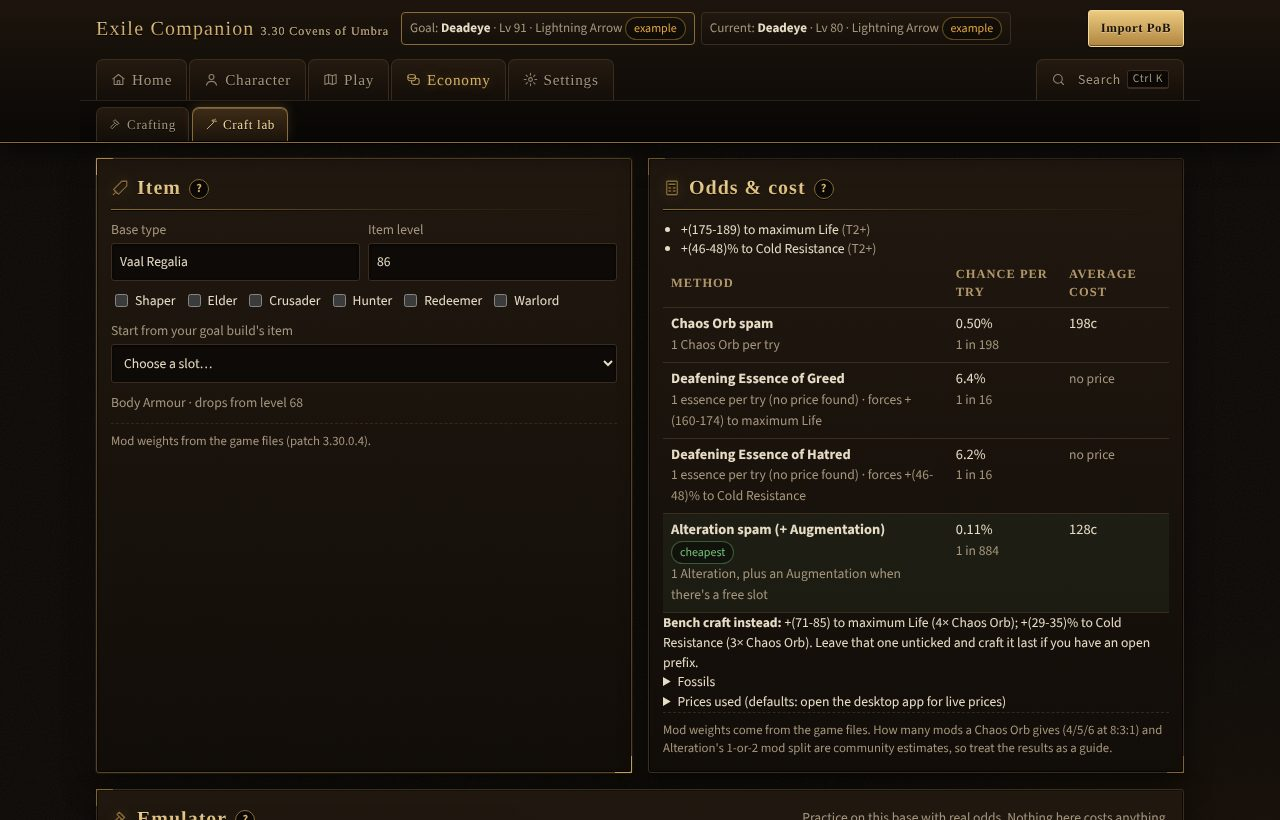
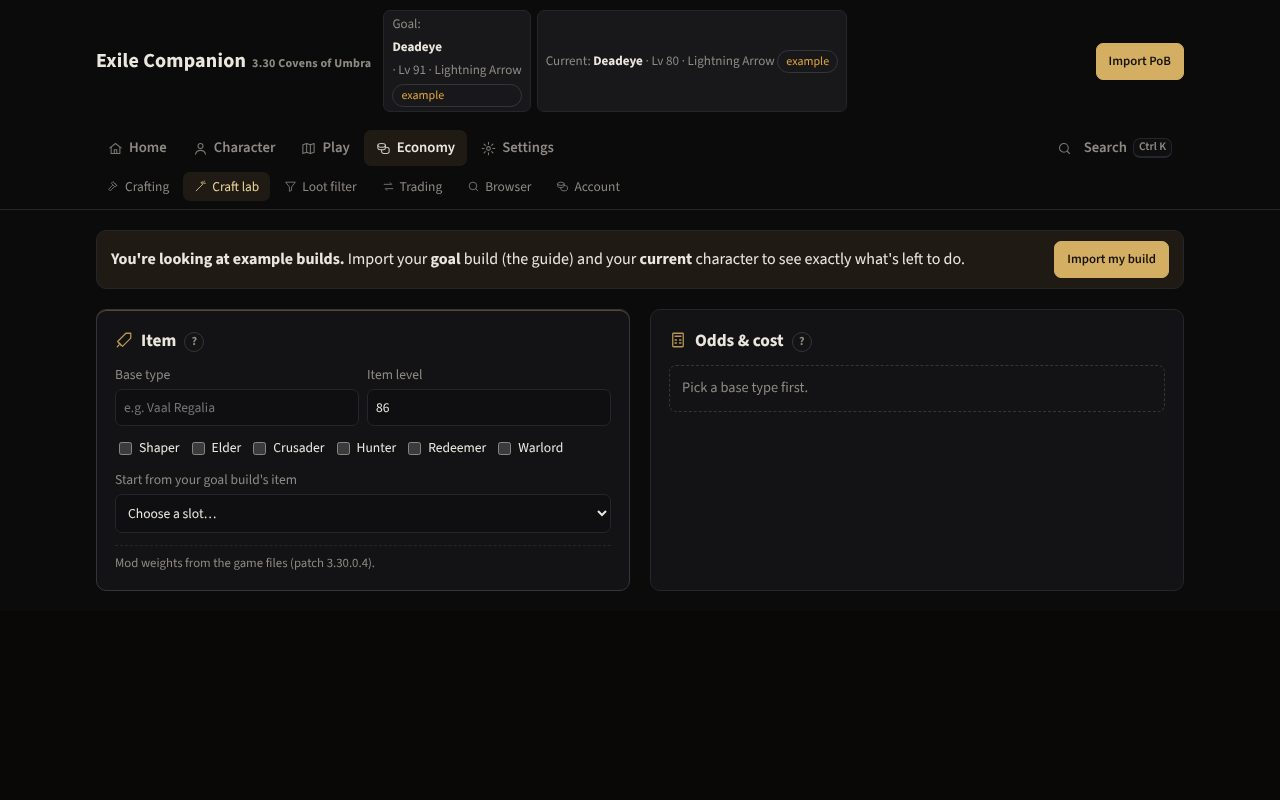
1.14.0: three themes (Dark minimal, Modern, Path of Exile), light animations, loading bar, minimal sounds
Claude-Session: https://claude.ai/code/session_011bvunBjcxHe2YqtxYbg75p

diff --git a/app/theme.css b/app/theme.css
@@ -1,0 +1,150 @@
+/* Exile Companion themes, motion and loading states.
+   html[data-theme] picks the look: "poe" is the original in-game style (the base stylesheet, untouched),
+   "minimal" and "modern" share a flat layer below and differ only in colours.
+   html.no-motion (setting or Windows "reduce motion") turns animations off. */
+
+/* ---------- colour sets ---------- */
+html[data-theme="minimal"]{
+  --bg:#0b0b0c; --panel:#131315; --panel2:#18181b; --line:#25252a; --line-hi:#34343b;
+  --text:#ebe7df; --muted:#8e8a83;
+  --gold:#d4ae62; --gold-dim:#7d6638; --gold-hi:#ecd29b; --accent-ink:#17120a;
+  --field:#0f0f11; --hover:#1d1d21; --soft:rgba(212,174,98,.10);
+  --display:"Source Sans 3","Segoe UI",system-ui,sans-serif;
+  --radius:10px; --radius-s:7px;
+}
+html[data-theme="modern"]{
+  --bg:#1a1b1e; --panel:#222327; --panel2:#2a2b30; --line:#33353b; --line-hi:#44464e;
+  --text:#e6e7ea; --muted:#9a9ca5;
+  --gold:#6d9cff; --gold-dim:#3f5f9e; --gold-hi:#a9c4ff; --accent-ink:#0b1020;
+  --field:#1c1d21; --hover:#2f3036; --soft:rgba(109,156,255,.12);
+  --display:"Segoe UI","Source Sans 3",system-ui,sans-serif;
+  --radius:8px; --radius-s:6px;
+}
+
+/* ---------- flat layer shared by minimal and modern ---------- */
+:is(html[data-theme="minimal"],html[data-theme="modern"]){
+  & html,& body{background:var(--bg)}
+  & body{background:var(--bg)!important}
+  & ::selection{background:var(--gold-dim);color:#fff}
+  & *{scrollbar-color:var(--line-hi) var(--bg)}
+  & header{background:color-mix(in srgb,var(--bg) 88%,transparent);backdrop-filter:blur(10px);border-bottom:1px solid var(--line);box-shadow:none}
+  & .brand{background:none;color:var(--text);-webkit-text-fill-color:currentColor;filter:none;letter-spacing:.01em;font-weight:700}
+  & .brand small{letter-spacing:.02em;font-family:var(--body)}
+  & h1,& h2,& h3{font-family:var(--display);letter-spacing:0}
+  & h2{background:none;-webkit-text-fill-color:currentColor;color:var(--text);filter:none;font-size:1.08rem;font-weight:700}
+  & .card>h2:first-child{border-bottom:0;padding-bottom:0}
+  & h3{font-size:.78rem;letter-spacing:.06em;color:var(--muted);font-weight:600}
+  & .ico-h{color:var(--gold);filter:none!important;opacity:.85}
+  & main{gap:20px;padding:20px 16px}
+  & section.tab.on,& .grid{gap:20px}
+  & .card{background:var(--panel);border:1px solid var(--line);border-radius:var(--radius);box-shadow:none;padding:18px;gap:12px}
+  & .card::before,& .card::after{display:none}
+  & .card.hl{border-color:var(--line-hi);box-shadow:inset 0 1px 0 color-mix(in srgb,var(--gold) 35%,transparent)}
+  & .btn{background:var(--panel2);border:1px solid var(--line-hi);color:var(--text);border-radius:var(--radius-s);box-shadow:none;text-shadow:none;font-family:var(--body);letter-spacing:0;font-weight:600}
+  & .btn:hover{background:var(--hover);border-color:var(--gold-dim);color:var(--text)}
+  & .btn.primary{background:var(--gold);border-color:var(--gold);color:var(--accent-ink);text-shadow:none}
+  & .btn.primary:hover{background:var(--gold-hi);border-color:var(--gold-hi);color:var(--accent-ink)}
+  & .btn.ghost{background:transparent;border-color:var(--line);color:var(--text)}
+  & .btn.ghost:hover{background:var(--hover);border-color:var(--line-hi)}
+  & .btn.small{font-size:.8rem;padding:5px 10px}
+  & nav button{background:none;border:0;border-radius:var(--radius-s);text-shadow:none;box-shadow:none;font-family:var(--body);letter-spacing:0;color:var(--muted)}
+  & nav button:hover{background:var(--hover);color:var(--text)}
+  & nav button[aria-selected="true"]{background:var(--soft);color:var(--text);box-shadow:none}
+  & #groups{padding:8px 16px 6px}
+  & #groups button{font-size:.92rem;font-weight:600;padding:7px 12px;border-bottom:0}
+  & #groups button[aria-current="true"]{color:var(--text);background:var(--soft);text-shadow:none}
+  & #tabs{background:none;border-top:0;padding:0 16px 8px}
+  & #tabs button{font-size:.84rem;padding:5px 11px}
+  & #tabs button[aria-selected="true"]{color:var(--gold-hi)}
+  & .pill{background:transparent;border-color:var(--line-hi)}
+  & .pill.gold{background:var(--soft);border-color:transparent;color:var(--gold-hi)}
+  & .stat{background:var(--panel2);border:0;border-radius:var(--radius-s);box-shadow:none}
+  & .stat .k{font-family:var(--body);letter-spacing:.04em;color:var(--muted);font-weight:600}
+  & input[type=text],& input[type=number],& input[type=password],& input[type=date],& input[type=search],& select,& textarea{background:var(--field);border:1px solid var(--line);border-radius:var(--radius-s);box-shadow:none}
+  & input:focus,& select:focus,& textarea:focus{border-color:var(--gold-dim);box-shadow:0 0 0 3px var(--soft)}
+  & .item{background:var(--field);border-color:var(--line);border-radius:var(--radius-s)}
+  & .item.UNIQUE,& .item.RARE,& .item.MAGIC{background:var(--field);border-color:var(--line)}
+  & .item.UNIQUE{border-left-color:var(--unique)}& .item.RARE{border-left-color:#d9d65a}& .item.MAGIC{border-left-color:var(--magic)}
+  & .item .nm,& .seg button,& th,& .fl-label{font-family:var(--body);letter-spacing:0}
+  & .sg,& .check,& .bchip,& .cl-row,& .fl-rule{background:var(--panel2);border-color:var(--line);border-radius:var(--radius-s)}
+  & .cl-row.on,& .fl-rule.on{background:var(--soft)}
+  & th{color:var(--muted);letter-spacing:.03em}
+  & tbody tr:hover td{background:var(--soft)}
+  & .meter{background:var(--field);border:0;box-shadow:none}
+  & .meter i{background:var(--gold);box-shadow:none}
+  & .big{background:none;-webkit-text-fill-color:currentColor;color:var(--gold-hi);font-family:var(--display);font-weight:700}
+  & .banner{background:var(--soft);border:1px solid var(--line);border-radius:var(--radius);box-shadow:none}
+  & dialog{background:var(--panel);border:1px solid var(--line-hi);border-radius:calc(var(--radius) + 2px);box-shadow:0 24px 70px rgba(0,0,0,.6)}
+  & .code,& .ttout,& kbd,& #cmdkQ,& .br-addr input,& .rp-pre,& #reportDlg textarea{background:var(--field);border-color:var(--line);border-radius:var(--radius-s)}
+  & .seg{border-color:var(--line-hi);border-radius:var(--radius-s)}
+  & .seg button[aria-pressed="true"],& .actseg button[aria-pressed="true"]{background:var(--gold);color:var(--accent-ink)}
+  & .helpbtn{background:transparent;border-color:var(--line-hi);color:var(--muted)}
+  & .helpbtn[aria-expanded="true"]{background:var(--gold);color:var(--accent-ink)}
+  & .helptext{background:var(--soft);border-left-color:var(--gold-dim)}
+  & .emptybox{border-color:var(--line-hi);background:transparent;border-radius:var(--radius-s)}
+  & #toast{background:var(--panel2);border:1px solid var(--line-hi);border-radius:var(--radius);box-shadow:0 12px 40px rgba(0,0,0,.5)}
+  & #cmdkList li{border-radius:var(--radius-s)}
+  & #cmdkList li[aria-selected="true"]{background:var(--soft);box-shadow:inset 2px 0 0 var(--gold)}
+  & .thread{background:var(--soft);border-color:transparent;border-radius:5px}
+  & .note{border-top-color:var(--line)}
+  & .br-host{background:var(--field);border-radius:var(--radius-s)}
+  & .clip-it{background:var(--panel2);border-color:var(--line)}
+  & .card.flash{animation:flashFlat 1.6s ease-out}
+}
+html[data-theme="modern"] .pill.gold,html[data-theme="modern"] #tabs button[aria-selected="true"]{color:var(--gold-hi)}
+html[data-theme="modern"] .ico-h{color:var(--muted)}
+@media (max-width:700px){:is(html[data-theme="minimal"],html[data-theme="modern"]) #groups .kbtn{background:linear-gradient(90deg,transparent,var(--bg) 30%)}}
+@keyframes flashFlat{0%{box-shadow:0 0 0 2px var(--gold)}100%{box-shadow:none}}
+
+/* ---------- PoE style: a little extra polish on top of the original ---------- */
+html[data-theme="poe"] h2 .ico-h{color:var(--gold)}
+
+/* ---------- motion ---------- */
+@keyframes ecFadeUp{from{opacity:0;transform:translateY(6px)}to{opacity:1;transform:none}}
+@keyframes ecFade{from{opacity:0}to{opacity:1}}
+@keyframes ecPop{from{opacity:0;transform:translateY(8px) scale(.98)}to{opacity:1;transform:none}}
+@keyframes ecSlideUp{from{opacity:0;transform:translate(-50%,10px)}to{opacity:1;transform:translate(-50%,0)}}
+@keyframes ecShake{0%,100%{transform:none}25%{transform:translateX(-4px)}75%{transform:translateX(4px)}}
+@keyframes ecShimmer{from{background-position:-200% 0}to{background-position:200% 0}}
+@keyframes ecBusy{from{transform:translateX(-100%)}to{transform:translateX(250%)}}
+html:not(.no-motion) section.tab.on{animation:ecFade .18s ease-out}
+html:not(.no-motion) section.tab.on>.card,html:not(.no-motion) section.tab.on>.grid>.card,html:not(.no-motion) section.tab.on>div>.card{animation:ecFadeUp .32s cubic-bezier(.2,.7,.2,1) both}
+html:not(.no-motion) section.tab.on>*:nth-child(2)>.card,html:not(.no-motion) section.tab.on>.card:nth-child(2){animation-delay:.04s}
+html:not(.no-motion) section.tab.on>*:nth-child(3)>.card,html:not(.no-motion) section.tab.on>.card:nth-child(3){animation-delay:.08s}
+html:not(.no-motion) section.tab.on>*:nth-child(n+4)>.card,html:not(.no-motion) section.tab.on>.card:nth-child(n+4){animation-delay:.12s}
+html:not(.no-motion) #tabs:not(.solo) button{animation:ecFade .2s ease-out both}
+html:not(.no-motion) dialog[open]{animation:ecPop .2s cubic-bezier(.2,.7,.2,1)}
+html:not(.no-motion) dialog[open]::backdrop{animation:ecFade .2s ease-out}
+html:not(.no-motion) #toast:not([hidden]){animation:ecSlideUp .22s cubic-bezier(.2,.7,.2,1)}
+html:not(.no-motion) .helptext{animation:ecFadeUp .18s ease-out}
+html:not(.no-motion) .btn,html:not(.no-motion) nav button,html:not(.no-motion) .clip-it,html:not(.no-motion) .item{transition:background-color .15s,border-color .15s,color .15s,transform .08s ease,box-shadow .15s}
+html:not(.no-motion) .btn:active:not([disabled]),html:not(.no-motion) nav button:active,html:not(.no-motion) .clip-it:active{transform:scale(.97)}
+html:not(.no-motion) .meter i,html:not(.no-motion) .gbar i{transition:width .5s cubic-bezier(.2,.7,.2,1)}
+html:not(.no-motion) .ec-invalid{animation:ecShake .28s ease-in-out}
+.ec-invalid{border-color:var(--bad)!important;box-shadow:0 0 0 3px color-mix(in srgb,var(--bad) 25%,transparent)!important}
+
+/* loading: a thin bar under the header while the app fetches, and skeleton lines for loading cards */
+#busy{position:fixed;left:0;right:0;top:0;height:2px;z-index:80;overflow:hidden;pointer-events:none;opacity:0;transition:opacity .2s}
+#busy i{display:block;width:40%;height:100%;background:linear-gradient(90deg,transparent,var(--gold),transparent)}
+body.busy #busy{opacity:1}
+html:not(.no-motion) body.busy #busy i{animation:ecBusy 1.1s ease-in-out infinite}
+html.no-motion body.busy #busy i{width:100%;opacity:.6}
+.skel{display:grid;gap:8px}
+.skel i{display:block;height:12px;border-radius:6px;background:linear-gradient(90deg,var(--panel2) 25%,var(--line) 50%,var(--panel2) 75%);background-size:200% 100%}
+.skel i:nth-child(2){width:80%}.skel i:nth-child(3){width:60%}
+html:not(.no-motion) .skel i{animation:ecShimmer 1.4s linear infinite}
+
+/* settings: theme picker */
+.theme-pick{display:grid;grid-template-columns:repeat(auto-fit,minmax(170px,1fr));gap:10px}
+.theme-opt{display:grid;gap:8px;padding:10px;border:1px solid var(--line);border-radius:8px;background:transparent;color:var(--text);text-align:left;cursor:pointer;font:inherit}
+.theme-opt[aria-pressed="true"]{border-color:var(--gold);box-shadow:0 0 0 2px color-mix(in srgb,var(--gold) 30%,transparent)}
+.theme-sw{height:54px;border-radius:6px;display:grid;grid-template-columns:1fr 2fr;gap:5px;padding:6px}
+.theme-sw b{border-radius:4px}
+.theme-sw.t-minimal{background:#0b0b0c}.theme-sw.t-minimal b:first-child{background:#18181b}.theme-sw.t-minimal b:last-child{background:#131315;box-shadow:inset 0 -6px 0 #d4ae62}
+.theme-sw.t-modern{background:#1a1b1e}.theme-sw.t-modern b:first-child{background:#2a2b30}.theme-sw.t-modern b:last-child{background:#222327;box-shadow:inset 0 -6px 0 #6d9cff}
+.theme-sw.t-poe{background:radial-gradient(circle at 50% 0,#2b1d10,#0a0806)}.theme-sw.t-poe b:first-child{background:linear-gradient(#3e2c17,#1b130b);border:1px solid #8a6c38}.theme-sw.t-poe b:last-child{background:linear-gradient(#21190f,#110d09);border:1px solid #5c4628;box-shadow:inset 0 -6px 0 #d4ae62}
+.vol{display:flex;gap:10px;align-items:center}.vol input{width:160px;accent-color:var(--gold)}
+
+/* checkbox rows keep the box next to its first line of text */
+label.row.small{flex-wrap:nowrap;align-items:flex-start}
+label.row.small>input[type=checkbox]{margin-top:3px;flex:none;accent-color:var(--gold)}

diff --git a/app/index.html b/app/index.html
@@ -6,6 +6,11 @@
 <meta name="viewport" content="width=device-width, initial-scale=1">
 <title>Exile Companion 3.30</title>
 <script>
+/* apply the saved theme and motion setting before the page paints */
+(function(){try{const st=JSON.parse(localStorage.getItem("ec330.state")||"{}");const ui=st.ui||{};const t=["minimal","modern","poe"].includes(ui.theme)?ui.theme:"minimal";
+document.documentElement.dataset.theme=t;if(ui.motion===false||matchMedia("(prefers-reduced-motion: reduce)").matches)document.documentElement.classList.add("no-motion")}catch(e){document.documentElement.dataset.theme="minimal"}})();
+</script>
+<script>
 /* keep the last few errors for "Report a problem" (memory only, never sent anywhere automatically) */
 window.__ERRS=[];(function(){const push=(k,m)=>{try{window.__ERRS.push({t:Date.now(),k,m:String(m).slice(0,600)});if(window.__ERRS.length>40)window.__ERRS.shift();if(window.__onAppError&&k!=="console")window.__onAppError()}catch(e){}};
 addEventListener("error",e=>{if(e.target&&e.target!==window&&e.target.tagName)return;push("error",(e.message||"")+(e.filename?` @ ${String(e.filename).split("/").pop()}:${e.lineno}:${e.colno}`:"")+(e.error&&e.error.stack?"\n"+e.error.stack.split("\n").slice(1,4).join("\n"):""))});
@@ -412,8 +417,10 @@ header{transition:transform .2s ease}
 
 @media (max-width:600px){#groups button{padding:9px 10px;font-size:.88rem}#groups .kbtn kbd,#groups .kbtn .lbl{display:none}#groups .kbtn{font-size:1.1rem}}
 </style>
+<link rel="stylesheet" href="theme.css">
 </head>
 <body>
+<div id="busy" aria-hidden="true"><i></i></div>
 <header>
   <div class="bar">
     <div class="brand">Exile Companion<small>3.30 Covens of Umbra</small></div>
@@ -1285,23 +1292,23 @@ function craftPlan(item,slot){
     <p class="note" style="margin:0">Not sure it's worth crafting? Search the trade site for the same base with your 2–3 most important mods. If it's cheaper than ~2 Divine Orbs, buy it.</p>`;
 }
 function openTradeTools(){
-  const el=$("tradeTools");if(el&&!el.firstChild)el.innerHTML='<div class="card hl"><h2>Trading</h2><p class="small muted" style="margin:0">Loading…</p></div>';
+  const el=$("tradeTools");if(el&&!el.firstChild)el.innerHTML='<div class="card hl"><h2>Trading</h2><div class="skel" aria-label="Loading"><i></i><i></i><i></i></div></div>';
   loadScriptOnce("tradetools.js","TradeTools").then(()=>TradeTools.render()).catch(e=>{if(el)el.innerHTML=`<div class="card"><h2>Trading</h2>${emptyBox("Couldn't load the trading tools: "+(e.message||e))}</div>`});
 }
 function openBuildTools(){
-  const el=$("buildTools");if(el&&!el.children.length)el.innerHTML='<div class="card"><h2>Build tools</h2><p class="small muted" style="margin:0">Loading…</p></div>';
+  const el=$("buildTools");if(el&&!el.children.length)el.innerHTML='<div class="card"><h2>Build tools</h2><div class="skel" aria-label="Loading"><i></i><i></i><i></i></div></div>';
   loadScriptOnce("buildtools.js","BuildTools").then(()=>BuildTools.render()).catch(e=>{if(el)el.innerHTML=`<div class="card"><h2>Build tools</h2>${emptyBox("Couldn't load the build tools: "+(e.message||e))}</div>`});
 }
 function openLeague(){
-  const el=$("leagueTools");if(el&&!el.children.length)el.innerHTML='<div class="card"><h2>League</h2><p class="small muted" style="margin:0">Loading…</p></div>';
+  const el=$("leagueTools");if(el&&!el.children.length)el.innerHTML='<div class="card"><h2>League</h2><div class="skel" aria-label="Loading"><i></i><i></i><i></i></div></div>';
   loadScriptOnce("league.js","LeagueTools").then(()=>LeagueTools.render()).catch(e=>{if(el)el.innerHTML=`<div class="card"><h2>League</h2>${emptyBox("Couldn't load the league tools: "+(e.message||e))}</div>`});
 }
 function openFilterLab(){
-  const el=$("filterLab");if(el&&!el.firstChild)el.innerHTML='<div class="card hl"><h2>Loot filter</h2><p class="small muted" style="margin:0">Loading…</p></div>';
+  const el=$("filterLab");if(el&&!el.firstChild)el.innerHTML='<div class="card hl"><h2>Loot filter</h2><div class="skel" aria-label="Loading"><i></i><i></i><i></i></div></div>';
   loadScriptOnce("filterlab.js","FilterLab").then(()=>FilterLab.render()).catch(e=>{if(el)el.innerHTML=`<div class="card"><h2>Loot filter</h2>${emptyBox("Couldn't load the filter editor: "+(e.message||e))}</div>`});
 }
 function openCraftLab(item){
-  const el=$("craftLab");if(el&&!el.firstChild)el.innerHTML='<div class="card hl"><h2>Craft lab</h2><p class="small muted" style="margin:0">Loading…</p></div>';
+  const el=$("craftLab");if(el&&!el.firstChild)el.innerHTML='<div class="card hl"><h2>Craft lab</h2><div class="skel" aria-label="Loading"><i></i><i></i><i></i></div></div>';
   loadScriptOnce("craftlab.js","CraftLab").then(()=>CraftLab.load()).then(()=>{if(item)CraftLab.fromItem(item);else CraftLab.render()})
     .catch(e=>{if(el)el.innerHTML=`<div class="card"><h2>Craft lab</h2>${emptyBox("Couldn't load the crafting data: "+(e.message||e))}</div>`});
 }
@@ -3763,6 +3770,11 @@ function renderSettings(){
     ${DESK?`<h3>Web links</h3>
     <label class="row small"><input type="checkbox" id="stInApp"${c.inAppBrowser!==false?" checked":""}> Open trade, wiki and poe.ninja links in the app's browser (other sites always open in your own browser)</label>
     <div class="row"><button class="btn ghost small" id="stBrClear">Clear browser data</button><span class="small muted">Signs you out of pathofexile.com in the app and clears its cookies and cache.</span></div>`:""}
+    <h3>Look and feel</h3>
+    <div class="theme-pick" role="group" aria-label="Theme">${THEMES.map(([k,l,d])=>`<button class="theme-opt" data-theme-pick="${k}" aria-pressed="${UI.theme===k}"><span class="theme-sw t-${k}"><b></b><b></b></span><span><b>${l}</b><br><span class="small muted">${d}</span></span></button>`).join("")}</div>
+    <label class="row small"><input type="checkbox" id="stMotion"${UI.motion!==false?" checked":""}> Animations (menus, loading and buttons)${REDUCED_MOTION?' <span class="muted">· Windows "reduce motion" is on, so they stay off</span>':""}</label>
+    <label class="row small"><input type="checkbox" id="stSound"${UI.sound!==false?" checked":""}> Sounds: a soft click on buttons and a cue when a required field is empty</label>
+    <div class="vol small"><label for="stVol">Volume</label><input type="range" id="stVol" min="0" max="100" step="5" value="${Math.round((UI.vol??0.4)*100)}"${UI.sound===false?" disabled":""}><button class="btn ghost small" id="stVolTest" type="button">Test</button></div>
     <h3>Display</h3>
     <label class="row small"><input type="checkbox" id="stCompact"${S.compact?" checked":""}> Compact mode: smaller text and tighter spacing for small screens or a side monitor</label>
     <label class="row small"><input type="checkbox" id="stHelp"${S.helpOff?"":" checked"}> Show the ? explainer button on cards</label>`;
@@ -3770,6 +3782,11 @@ function renderSettings(){
   $("stImpG").onclick=()=>openImport("goal");$("stImpC").onclick=()=>openImport("current");
   const dc=$("stDelC");if(dc)dc.onclick=()=>{const xml=store.get("xml.current",null);clearSlot("current");renderSettings();if(xml)toast("Removed your current character.",async()=>{await loadSlot("current",xml,false);renderSettings()})};
   $("stHelp").onchange=e=>{S.helpOff=!e.target.checked;save();ensureHelp()};
+  document.querySelectorAll("[data-theme-pick]").forEach(b=>b.onclick=()=>{setTheme(b.dataset.themePick);renderSettings()});
+  $("stMotion").onchange=e=>{UI.motion=e.target.checked;save();applyMotion()};
+  $("stSound").onchange=e=>{UI.sound=e.target.checked;save();renderSettings();if(UI.sound)SND.click()};
+  $("stVol").oninput=e=>{UI.vol=+e.target.value/100;save()};$("stVol").onchange=()=>SND.click();
+  $("stVolTest").onclick=()=>{SND.click();setTimeout(()=>SND.warn(),250)};
   $("stCompact").onchange=e=>setCompact(e.target.checked);
   if(DESK){const ia=$("stInApp");if(ia)ia.onchange=async e=>{LIVE.cfg=await DESK.setConfig({inAppBrowser:e.target.checked});toast(e.target.checked?"Links open in the app's browser.":"Links open in your own browser.")};
     const bc=$("stBrClear");if(bc)bc.onclick=async()=>{const r=await DESK.browserClear();toast(r&&r.ok?"Browser data cleared. You're signed out of pathofexile.com in the app.":"Couldn't clear browser data.")}}
@@ -3968,6 +3985,29 @@ if(matchMedia("(hover:hover)").matches){
 }
 
 /* compact mode */
+/* ---------- look and feel: themes, motion, sounds, busy bar ---------- */
+const THEMES=[["minimal","Dark minimal","Near-black, one gold accent, quiet"],["modern","Modern","Neutral charcoal with a blue accent"],["poe","Path of Exile","Gold-trimmed panels like the game"]];
+const UI=S.ui||(S.ui={theme:"minimal",motion:true,sound:true,vol:0.4});
+const REDUCED_MOTION=matchMedia("(prefers-reduced-motion: reduce)").matches;
+function setTheme(t){if(!THEMES.some(x=>x[0]===t))return;UI.theme=t;save();document.documentElement.dataset.theme=t;toast(`Theme: ${THEMES.find(x=>x[0]===t)[1]}`)}
+function applyMotion(){document.documentElement.classList.toggle("no-motion",UI.motion===false||REDUCED_MOTION)}
+document.documentElement.dataset.theme=UI.theme||"minimal";applyMotion();
+// tiny synthesized sounds (no audio files): a soft tick for buttons, a low two-note cue for a missing field
+const SND=(()=>{let ctx=null,lastWarn=0;
+  const ac=()=>{if(!ctx){const C=window.AudioContext||window.webkitAudioContext;if(!C)return null;ctx=new C()}if(ctx.state==="suspended")ctx.resume().catch(()=>{});return ctx};
+  const tone=(f1,f2,dur,type,peak,at)=>{const c=ac();if(!c)return;const t=c.currentTime+(at||0),o=c.createOscillator(),g=c.createGain();o.type=type;o.frequency.setValueAtTime(f1,t);if(f2)o.frequency.exponentialRampToValueAtTime(f2,t+dur);
+    g.gain.setValueAtTime(0.0001,t);g.gain.exponentialRampToValueAtTime(Math.max(0.0002,peak),t+0.006);g.gain.exponentialRampToValueAtTime(0.0001,t+dur);o.connect(g).connect(c.destination);o.start(t);o.stop(t+dur+0.02)};
+  const vol=()=>UI.sound===false?0:Math.max(0,Math.min(1,UI.vol??0.4));
+  return {click(){const v=vol();if(v)tone(1900,1200,0.035,"sine",0.06*v)},
+    warn(){const v=vol();if(!v||Date.now()-lastWarn<400)return;lastWarn=Date.now();tone(330,300,0.09,"triangle",0.16*v);tone(247,220,0.14,"triangle",0.16*v,0.1)}};
+})();
+document.addEventListener("click",e=>{const b=e.target.closest&&e.target.closest("button,.btn,[role=tab],summary,.theme-opt");if(b&&!b.disabled&&!b.classList.contains("dis"))SND.click()},true);
+// a required field left empty: play the cue, shake the field once
+document.addEventListener("invalid",e=>{const el=e.target;SND.warn();el.classList.remove("ec-invalid");void el.offsetWidth;el.classList.add("ec-invalid");setTimeout(()=>el.classList.remove("ec-invalid"),1500)},true);
+// busy bar while the app fetches data or loads a page module
+let BUSY=0;const busy=d=>{BUSY=Math.max(0,BUSY+d);document.body.classList.toggle("busy",BUSY>0)};
+addEventListener("ec-busy",e=>busy(+e.detail||0));
+{const ls=loadScriptOnce;loadScriptOnce=(src,g)=>window[g]?ls(src,g):(busy(1),ls(src,g).finally(()=>busy(-1)))}
 function applyCompact(){document.body.classList.toggle("compact",!!S.compact)}
 function setCompact(on){S.compact=!!on;save();applyCompact();toast(on?"Compact mode on.":"Compact mode off.")}
 applyCompact();

diff --git a/scripts/check.js b/scripts/check.js
@@ -288,6 +288,19 @@ try {
   assert.deepStrictEqual(Object.assign({}, B.gemVariant({ variant: "21/20c", chaosValue: 5 })), { lvl: 21, q: 20, c: true, price: 5, n: 0 });
 } catch (e) { fail("build tools: " + e.message); }
 
+// look and feel: three themes, early theme script, motion and sound settings
+try {
+  const css = fs.readFileSync(path.join(appDir, "theme.css"), "utf8"), html = fs.readFileSync(path.join(appDir, "index.html"), "utf8");
+  for (const t of ["minimal", "modern"]) assert(css.includes(`html[data-theme="${t}"]{`), "colour set for " + t);
+  assert(/<link rel="stylesheet" href="theme.css">/.test(html), "theme stylesheet linked");
+  assert(html.indexOf("document.documentElement.dataset.theme=t") < html.indexOf("<body"), "theme applied before the page paints");
+  assert(/prefers-reduced-motion: reduce/.test(html) && /html\.no-motion|html:not\(\.no-motion\)/.test(css), "animations respect reduce motion");
+  const { THEMES } = { THEMES: (html.match(/const THEMES=(\[.*?\]\]);/) || [])[1] };
+  assert(THEMES && ["minimal", "modern", "poe"].every((k) => THEMES.includes(`"${k}"`)), "settings offer all three themes");
+  assert(!/new Audio\(|\.mp3|\.wav/.test(html), "sounds are synthesized, no audio files");
+  ok("look and feel: 3 themes, applied before paint, motion respects Windows settings, sounds synthesized");
+} catch (e) { fail("look and feel: " + e.message); }
+
 Promise.all(pending).then(() => {
   if (failures) { console.error(`\n${failures} check(s) failed`); process.exit(1); }
   console.log("\nAll checks passed");

diff --git a/preload.js b/preload.js
@@ -34,7 +34,12 @@ contextBridge.exposeInMainWorld("exileDesktop", {
   setInteractive: (v) => ipcRenderer.send("overlay:interactive", v),
   resetOverlay: () => ipcRenderer.send("overlay:reset"),
   // price check
-  http: (req) => ipcRenderer.invoke("http", req),
+  // network requests also tell the page when they start and finish, for its loading bar
+  http: async (req) => {
+    try { window.dispatchEvent(new CustomEvent("ec-busy", { detail: 1 })); } catch (e) { /* no page */ }
+    try { return await ipcRenderer.invoke("http", req); }
+    finally { try { window.dispatchEvent(new CustomEvent("ec-busy", { detail: -1 })); } catch (e) { /* no page */ } }
+  },
   onPriceItem: on("price:item"),
   closePrice: () => ipcRenderer.send("price:close"),
   testPrice: (text) => ipcRenderer.send("price:test", text),

diff --git a/README.md b/README.md
@@ -93,6 +93,7 @@ Your character at a glance: progress toward the goal build, what to do next (cam
 | **League** | Built for 3.30's Threads: the cost of the Threads you put in each map (with free Shaped Region Threads and the 8-Thread cap), what each strategy returns for the Threads you spend (from your map log), a Betrayal board with the 3.30 rewards and the moves left to reach your plan, Expedition currency values, and Heist and Labyrinth notes. |
 | **Build tools** | Timeless jewel lookup and seed finder (Lethal Pride, Brutal Restraint, Militant Faith, Elegant Hubris, Heroic Tragedy) using Path of Building's tables, with a trade search for the seed. Also: cluster jewel notables and their odds for each enchant, gem levelling profit from poe.ninja, and a meta check against poe.ninja's builds page. |
 | **Quality of life** | Recent price checks: the last 20 items you copied, each re-checkable with one click (kept in memory only). Session goals (divines, chaos, maps or hours) with progress on Home and the overlay and a notification when reached. The in-app browser pinned over the game in an always-on-top window, with a hotkey and adjustable see-through. |
+| **Look and feel** | Three themes (Dark minimal, Modern, Path of Exile), light animations that respect Windows "reduce motion", a loading bar, and minimal synthesized sounds (button clicks, a cue for empty required fields) with volume control. |
 | **Browser** (desktop) | The trade site, poe.ninja, the wiki, poedb, poelab, Craft of Exile, FilterBlade, poe.re and pobb.in inside the app, signed in, with quick links and a wiki search. Links from the price window and elsewhere open here. Pages are sandboxed away from the app and your saved secrets; other sites open in your own browser. |
 | **Account** (desktop) | Live character sync from your GGG profile, stash net worth over time, stash finds (upgrades and items worth selling), currency trends and a sales tracker. |
 
@@ -135,11 +136,11 @@ All of these can be changed in **Settings → Hotkeys**.
 
 ## Roadmap
 
-The loot filter editor shipped in 1.8, the in-app browser in 1.9, the trading tools in 1.10, the League page in 1.11, the build tools in 1.12 and the quality-of-life tools in 1.13. Planned releases, in order. Each ships as a regular release through auto-update, gets tested in game afterwards, and any problems found are fixed in a follow-up patch (for example 1.8.1).
+The loot filter editor shipped in 1.8, the in-app browser in 1.9, the trading tools in 1.10, the League page in 1.11, the build tools in 1.12, the quality-of-life tools in 1.13 and the look-and-feel overhaul in 1.14. Planned releases, in order. Each ships as a regular release through auto-update, gets tested in game afterwards, and any problems found are fixed in a follow-up patch (for example 1.8.1).
 
 | Version | Feature |
 |---|---|
-| **1.14** | **Look and feel:** a cleaner, more minimal layout with three switchable themes (dark minimal, neutral modern, PoE in-game style), light animations on menus, loading and buttons, and optional minimal sounds.|
+| Next | Ideas welcome: open a feature request on GitHub or use Settings → Report a problem.|
 
 Not planned: anything that sends input to the game (auto-setting stash notes, chat macros) or uploads to your GGG account, because GGG isn't approving new third-party sign-ins.
 

diff --git a/CHANGELOG.md b/CHANGELOG.md
@@ -2,6 +2,21 @@
 
 What changed in each release, newest first. Installed copies update themselves; see the [Releases page](https://github.com/nickolusliquori/exile-companion/releases) for the installers. Planned releases are on the [roadmap](README.md#roadmap).
 
+## [1.14.0] - 2026-11-21
+
+### Added
+- **Three themes** (Settings → Look and feel), switched instantly and remembered:
+  - **Dark minimal** (new default): near-black with one gold accent, flat panels, more spacing, plain headings.
+  - **Modern:** neutral charcoal with a blue accent.
+  - **Path of Exile:** the gold-trimmed, game-style look from earlier versions.
+- **Light animations:** pages and cards fade in, sub-menus slide in, dialogs and notices pop in, buttons press down. They turn off with the new Animations switch or when Windows "reduce motion" is on.
+- **Loading feedback:** a thin bar at the top while the app fetches prices or data, and shimmering placeholders while a page loads.
+- **Minimal sounds:** a soft click on buttons and a short cue (plus a shake) when a required field is left empty. On by default at low volume; switch them off or set the volume in Settings. The sounds are generated in the app, with no audio files.
+
+### Changed
+- Checkbox labels keep the box next to the text instead of wrapping it onto its own line.
+- The overlay, price window and pinned browser keep their own compact style for now.
+
 ## [1.13.0] - 2026-11-21
 
 ### Added
